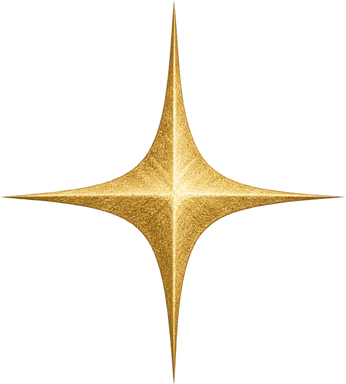
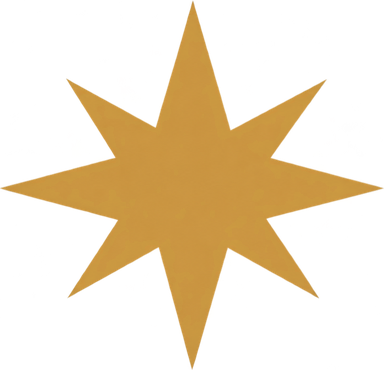
Swap board glyphs for light/dark spires and eight-point star
Replace the spire with separate plum (light mode) and cream (dark mode)
versions, chosen by [data-nl-mode], and replace the four-point star with
the new gold eight-point star. Update story copy and docs to match.

Claude-Session: https://claude.ai/code/session_01HneMi9FF5eYCsyo9n53J5i

Changed region(s): [[0.0, 0.0, 1.0, 1.0]]

diff --git a/stories/projects/grim-glimmer/board-glyphs.ts b/stories/projects/grim-glimmer/board-glyphs.ts
@@ -6,17 +6,19 @@
  * the catalog can show what the board looks like with real artwork. Production artwork belongs
  * to the game app.
  *
- *  - spire (`fixed`):                  the given piece
- *  - four-point star (`placed`):       the player's confirmed piece (`tentative` is the same star, faded)
+ *  - spire (`fixed`):                  the given piece; plum in light mode, cream in dark mode
+ *  - eight-point star (`placed`):      the player's confirmed piece (`tentative` is the same star, faded)
  *  - `marked` dot and `excluded` X:    unchanged
  */
-const spire = new URL('./assets/glyph-spire.png', import.meta.url).href;
+const spireLight = new URL('./assets/glyph-spire-light.png', import.meta.url).href;
+const spireDark = new URL('./assets/glyph-spire-dark.png', import.meta.url).href;
 const star = new URL('./assets/glyph-star.png', import.meta.url).href;
 
 /** Opts a story subtree into the artwork glyphs. Returns the same node for chaining. */
 export function withBoardGlyphs<T extends HTMLElement>(node: T): T {
   node.classList.add('sb-grim-glyphs');
-  node.style.setProperty('--sb-glyph-fixed', `url("${spire}")`);
+  node.style.setProperty('--sb-glyph-fixed-light', `url("${spireLight}")`);
+  node.style.setProperty('--sb-glyph-fixed-dark', `url("${spireDark}")`);
   node.style.setProperty('--sb-glyph-placed', `url("${star}")`);
   return node;
 }

diff --git a/stories/projects/grim-glimmer/Gameplay.stories.ts b/stories/projects/grim-glimmer/Gameplay.stories.ts
@@ -261,7 +261,7 @@ export const BoardModes: StoryObj<{ onCellActivate: (index: number) => void }> =
   parameters: { nlStage: 'default' },
 };
 
-/** Every cell state on the clued board, with the spire (given) and four-point star (placed) artwork. */
+/** Every cell state on the clued board, with the spire (given) and eight-point star (placed) artwork. */
 export const BoardGlyphs: Story = {
   render: (_args, context) =>
     compareModes(
@@ -326,7 +326,7 @@ export const BoardGlyphs: Story = {
     docs: {
       description: {
         story:
-          'Story-only artwork: the spire marks a given piece and the four-point star a placed one (faded while tentative). Marked and excluded keep their simple shapes. The library board itself still ships generic placeholder glyphs; the game app owns the final artwork.',
+          'Story-only artwork: the spire marks a given piece (plum in light mode, cream in dark mode) and the eight-point star a placed one (faded while tentative). Marked and excluded keep their simple shapes. The library board itself still ships generic placeholder glyphs; the game app owns the final artwork.',
       },
     },
   },

diff --git a/stories/story-styles.css b/stories/story-styles.css
@@ -616,7 +616,16 @@
 }
 
 /* Board glyph artwork (story-only; see stories/projects/grim-glimmer/board-glyphs.ts).
-   Replaces the placeholder circle / triangle with the spire and four-point star images. */
+   Replaces the placeholder circle / triangle with the spire and eight-point star images. The spire has a plum (light mode) and a cream
+   (dark mode) version; the star is gold in both. Mode comes from [data-nl-mode] on the stage. */
+.sb-grim-glyphs {
+  --sb-glyph-fixed: var(--sb-glyph-fixed-light);
+}
+
+[data-nl-mode='dark'] .sb-grim-glyphs {
+  --sb-glyph-fixed: var(--sb-glyph-fixed-dark);
+}
+
 .sb-grim-glyphs .nl-grim-glimmer-board__cell--fixed::before,
 .sb-grim-glyphs .nl-grim-glimmer-board__cell--placed::before,
 .sb-grim-glyphs .nl-grim-glimmer-board__cell--tentative::before {

diff --git a/docs/grim-glimmer-integration.md b/docs/grim-glimmer-integration.md
@@ -72,7 +72,7 @@ The **Projects / Grim & Glimmer / Dialogs / Modal flow** story simulates these r
 
 Clearly marked as such in the stories and code comments; none is final artwork:
 
-- Board glyphs (circle / triangle / dot) and the preview boards in collection cards. The Gameplay stories (**Game screen**, **Master 15x15**, **Board glyphs**) render the board with story-only spire (given) and four-point star (placed) artwork from `stories/projects/grim-glimmer/assets/`; the library board itself still ships the generic placeholders.
+- Board glyphs (circle / triangle / dot) and the preview boards in collection cards. The Gameplay stories (**Game screen**, **Master 15x15**, **Board glyphs**) render the board with story-only spire (given; light and dark versions) and eight-point star (placed) artwork from `stories/projects/grim-glimmer/assets/`; the library board itself still ships the generic placeholders.
 - The four-point star in the success dialog.
 - The sample icons (chevron, help) in the stories; real icons are supplied by the app as DOM nodes.
 - All sample copy, and the "Placeholder puzzle A/B" cards.
